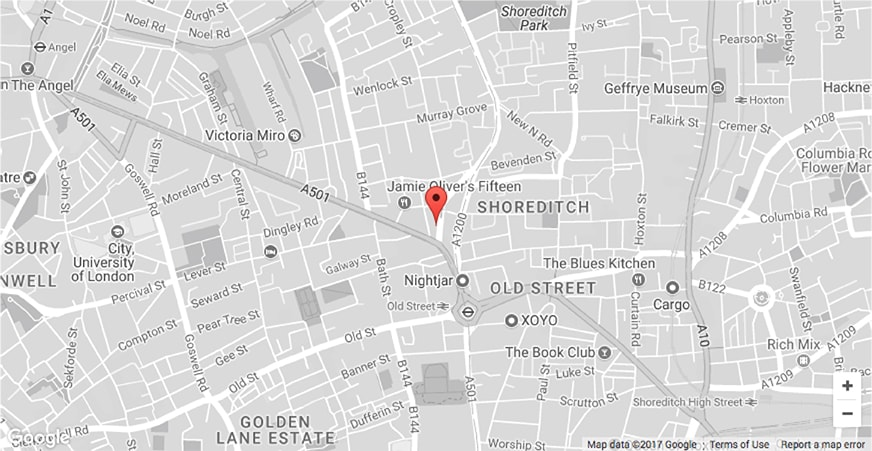
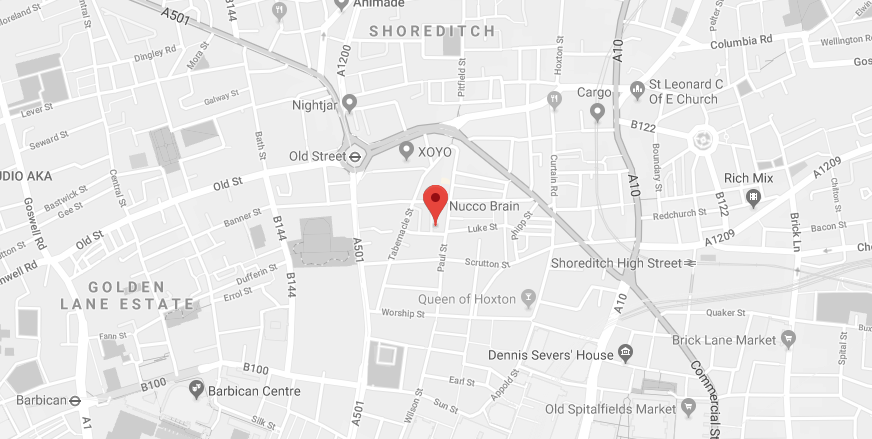
Added 3rd, mobile version of navbar menu, and cleaned up the top section. Also updated NB map.

diff --git a/src/stylesheets/partials/_header.scss b/src/stylesheets/partials/_header.scss
@@ -38,8 +38,8 @@
             align-items: center;
             position: relative;
             &:not(:first-child):not(:last-child) {
-                @include fluid(margin-right, 1000px, 1366px, 20px, 40px);
-                // border-bottom: 1px solid;
+                @include fluid(margin-right, 1000px, 1366px, 10px, 20px);
+                @include fluid(margin-left, 1000px, 1366px, 10px, 20px);
                 a:after {
                   content: '';
                   position: absolute;
@@ -53,7 +53,6 @@
                   width: 100%;
                 }
             }
-
             &_mail {
                 margin-left: auto;
                 svg {
@@ -98,48 +97,53 @@
                 height: 110px;
             }
             &-item {
+                // Removing the margins (left & right, on logo, nav items, and mail icon), which were necessecary for Desktop, but mess up alignments on mobile
                 margin-right: 0px;
-                &:nth-of-type(1) {
-                    order: 1;
+                margin-left: 0px;
+                &:not(:first-child):not(:last-child) {
+                    margin-right: 0px;
+                    margin-left: 0px;
+                }
+                // Re-order the nav items
+                &:nth-of-type(1), &:nth-of-type(5) {
+                    order: 0;
                     width: 30%;
                     min-width: 135px;
                 }
-                &:nth-of-type(2) {
-                    order: 3;
+                &:nth-of-type(2), &:nth-of-type(3), &:nth-of-type(4) {
+                    order: 1;
                     width: 70%;
-                    margin-top: 5px;
-                }
-                &:nth-of-type(3) {
-                    order: 4;
-                    width: 70%;
-                }
-                &:nth-of-type(4) {
-                    order: 5;
-                    width: 70%;
-                }
-                &:nth-of-type(5) {
-                    order: 2;
-                    width: 30%;
                 }
                 a {
                     margin: auto;
                 }
-                &_logo {
-                    a {
-                        width: 100%;
-                        &:after {
-                            display: none;
-                        }
-                    }
-                    img {
-                        margin: 0 auto 10px;
-                        display: block;
-                    }
-                }            
-                &_mail {
-                    margin-left: 0;
+                // Fine tune the spacings on tablet
+                &:nth-of-type(2) {
+                    margin-top: 5px;
+                }
+                &_logo img {
+                    margin: 0 auto 10px;
+                    display: block;
                 }
             }
+        }
+    }
+    @media screen and (max-width: 450px) {
+                // Create a one-column design
+        &--nav {
+            &-inner {
+                height: 180px;
+            }
+            &-item {
+                &:nth-of-type(n) {
+                    width: 100%;
+                }
+                // Move the mail icon to the end again
+                &:nth-of-type(5) {
+                    order: 2;
+                }            
+            }
+
         }
     }
 }

diff --git a/src/stylesheets/partials/_topsection.scss b/src/stylesheets/partials/_topsection.scss
@@ -1,6 +1,7 @@
 .topsection {
     width: 100vw;
     height: 100vh;
+    min-height: 500px;
     position: relative;
     color: $white;
     .video {
@@ -57,7 +58,7 @@
     &--title {
         font-family: 'Bebas';
         line-height: 1.41;
-        @include fluid(font-size, 720px, 1200px, 20px, 50px);
+        @include fluid(font-size, 720px, 1200px, 20px, 40px);
         text-shadow: 0px 0px 12px rgba($black, .6);
         text-transform: uppercase;
         margin: auto 0 auto;
@@ -122,13 +123,8 @@
         }
     }
     @media screen and (max-width:600px) {
-        &--title {
-            margin-top: 30%;
+        &--content {
+            padding-top: 180px;
         }
-    }
-    @media screen and (max-height:300px) {
-            &--btn-inner {
-                display: none;
-            }
     }
 }
